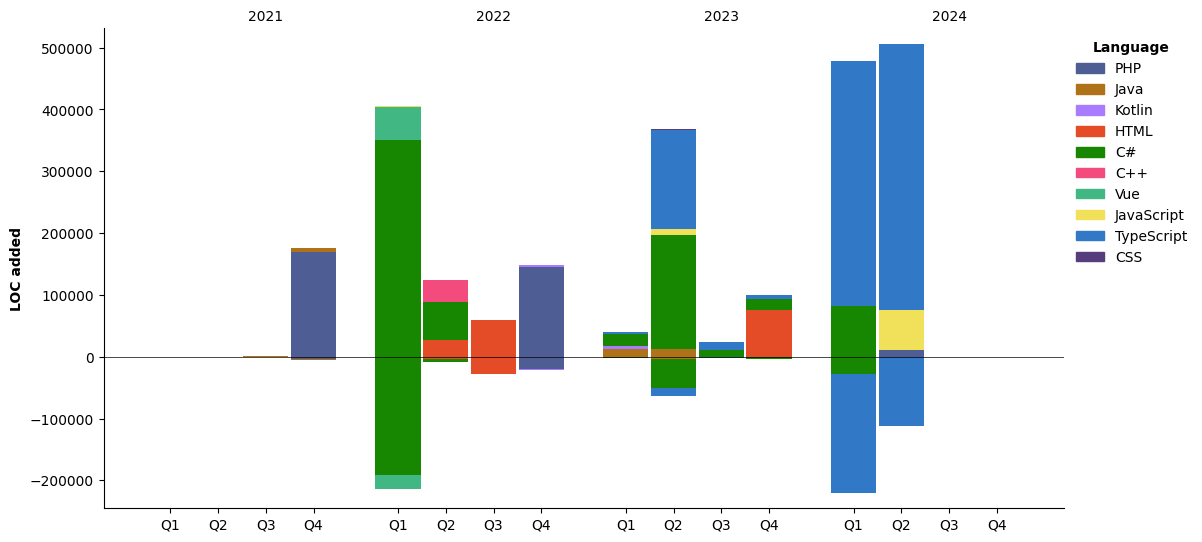
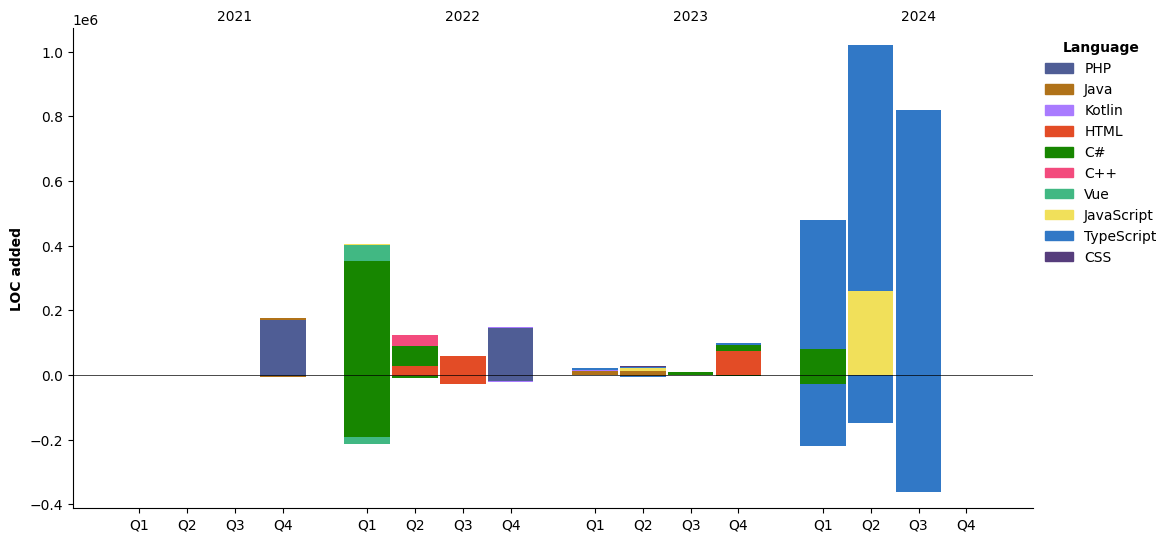
Updated WakaTime Metrics

diff --git a/README.md b/README.md
@@ -85,72 +85,68 @@ hobbies: ['Full Stack Development', 'Motorbikes', 'Food', 'Traveling']
 </div>
 
 <!--START_SECTION:DevTime-->
-
-![Profile Views](http://img.shields.io/badge/Profile%20Views-0-blue)
-
-**I'm an Early 🐤**
+**I'm an Early 🐤** 
 
 ```text
-🌞 Morning                690 commits         ⬛⬛⬛⬜⬜⬜⬜⬜⬜⬜⬜⬜⬜⬜⬜⬜⬜⬜⬜⬜⬜⬜⬜⬜⬜   11.48 %
-🌆 Daytime                2838 commits        ⬛⬛⬛⬛⬛⬛⬛⬛⬛⬛⬛⬛⬜⬜⬜⬜⬜⬜⬜⬜⬜⬜⬜⬜⬜   47.21 %
-🌃 Evening                1892 commits        ⬛⬛⬛⬛⬛⬛⬛⬛⬜⬜⬜⬜⬜⬜⬜⬜⬜⬜⬜⬜⬜⬜⬜⬜⬜   31.47 %
-🌙 Night                  592 commits         ⬛⬛⬜⬜⬜⬜⬜⬜⬜⬜⬜⬜⬜⬜⬜⬜⬜⬜⬜⬜⬜⬜⬜⬜⬜   09.85 %
+🌞 Morning                631 commits         ⬛⬛⬛⬜⬜⬜⬜⬜⬜⬜⬜⬜⬜⬜⬜⬜⬜⬜⬜⬜⬜⬜⬜⬜⬜   11.65 % 
+🌆 Daytime                2636 commits        ⬛⬛⬛⬛⬛⬛⬛⬛⬛⬛⬛⬛⬜⬜⬜⬜⬜⬜⬜⬜⬜⬜⬜⬜⬜   48.68 % 
+🌃 Evening                1405 commits        ⬛⬛⬛⬛⬛⬛⬜⬜⬜⬜⬜⬜⬜⬜⬜⬜⬜⬜⬜⬜⬜⬜⬜⬜⬜   25.95 % 
+🌙 Night                  743 commits         ⬛⬛⬛⬜⬜⬜⬜⬜⬜⬜⬜⬜⬜⬜⬜⬜⬜⬜⬜⬜⬜⬜⬜⬜⬜   13.72 % 
 ```
-
-📅 **I'm Most Productive on Thursday**
+📅 **I'm Most Productive on Tuesday** 
 
 ```text
-Monday                   980 commits         ⬛⬛⬛⬛⬜⬜⬜⬜⬜⬜⬜⬜⬜⬜⬜⬜⬜⬜⬜⬜⬜⬜⬜⬜⬜   16.30 %
-Tuesday                  921 commits         ⬛⬛⬛⬛⬜⬜⬜⬜⬜⬜⬜⬜⬜⬜⬜⬜⬜⬜⬜⬜⬜⬜⬜⬜⬜   15.32 %
-Wednesday                876 commits         ⬛⬛⬛⬛⬜⬜⬜⬜⬜⬜⬜⬜⬜⬜⬜⬜⬜⬜⬜⬜⬜⬜⬜⬜⬜   14.57 %
-Thursday                 1133 commits        ⬛⬛⬛⬛⬛⬜⬜⬜⬜⬜⬜⬜⬜⬜⬜⬜⬜⬜⬜⬜⬜⬜⬜⬜⬜   18.85 %
-Friday                   880 commits         ⬛⬛⬛⬛⬜⬜⬜⬜⬜⬜⬜⬜⬜⬜⬜⬜⬜⬜⬜⬜⬜⬜⬜⬜⬜   14.64 %
-Saturday                 835 commits         ⬛⬛⬛⬜⬜⬜⬜⬜⬜⬜⬜⬜⬜⬜⬜⬜⬜⬜⬜⬜⬜⬜⬜⬜⬜   13.89 %
-Sunday                   387 commits         ⬛⬛⬜⬜⬜⬜⬜⬜⬜⬜⬜⬜⬜⬜⬜⬜⬜⬜⬜⬜⬜⬜⬜⬜⬜   06.44 %
+Monday                   794 commits         ⬛⬛⬛⬛⬜⬜⬜⬜⬜⬜⬜⬜⬜⬜⬜⬜⬜⬜⬜⬜⬜⬜⬜⬜⬜   14.66 % 
+Tuesday                  939 commits         ⬛⬛⬛⬛⬜⬜⬜⬜⬜⬜⬜⬜⬜⬜⬜⬜⬜⬜⬜⬜⬜⬜⬜⬜⬜   17.34 % 
+Wednesday                922 commits         ⬛⬛⬛⬛⬜⬜⬜⬜⬜⬜⬜⬜⬜⬜⬜⬜⬜⬜⬜⬜⬜⬜⬜⬜⬜   17.03 % 
+Thursday                 901 commits         ⬛⬛⬛⬛⬜⬜⬜⬜⬜⬜⬜⬜⬜⬜⬜⬜⬜⬜⬜⬜⬜⬜⬜⬜⬜   16.64 % 
+Friday                   636 commits         ⬛⬛⬛⬜⬜⬜⬜⬜⬜⬜⬜⬜⬜⬜⬜⬜⬜⬜⬜⬜⬜⬜⬜⬜⬜   11.75 % 
+Saturday                 806 commits         ⬛⬛⬛⬛⬜⬜⬜⬜⬜⬜⬜⬜⬜⬜⬜⬜⬜⬜⬜⬜⬜⬜⬜⬜⬜   14.88 % 
+Sunday                   417 commits         ⬛⬛⬜⬜⬜⬜⬜⬜⬜⬜⬜⬜⬜⬜⬜⬜⬜⬜⬜⬜⬜⬜⬜⬜⬜   07.70 % 
 ```
 
-📊 **This Week I Spent My Time On**
+
+📊 **This Week I Spent My Time On** 
 
 ```text
 🕑 Time Zone: Europe/Paris
 
-💬 Programming Languages:
-TypeScript               48 hrs 15 mins      ⬛⬛⬛⬛⬛⬛⬛⬛⬛⬛⬛⬛⬛⬛⬛⬛⬛⬛⬛⬜⬜⬜⬜⬜⬜   74.66 %
-C#                       5 hrs 6 mins        ⬛⬛⬜⬜⬜⬜⬜⬜⬜⬜⬜⬜⬜⬜⬜⬜⬜⬜⬜⬜⬜⬜⬜⬜⬜   07.91 %
-YAML                     2 hrs 54 mins       ⬛⬜⬜⬜⬜⬜⬜⬜⬜⬜⬜⬜⬜⬜⬜⬜⬜⬜⬜⬜⬜⬜⬜⬜⬜   04.49 %
-JSON                     2 hrs 6 mins        ⬛⬜⬜⬜⬜⬜⬜⬜⬜⬜⬜⬜⬜⬜⬜⬜⬜⬜⬜⬜⬜⬜⬜⬜⬜   03.27 %
-Binary                   1 hr 49 mins        ⬛⬜⬜⬜⬜⬜⬜⬜⬜⬜⬜⬜⬜⬜⬜⬜⬜⬜⬜⬜⬜⬜⬜⬜⬜   02.81 %
+💬 Programming Languages: 
+TypeScript               1 hr 30 mins        ⬛⬛⬛⬛⬛⬛⬛⬛⬛⬛⬛⬛⬛⬛⬛⬛⬛⬛⬛⬛⬜⬜⬜⬜⬜   79.05 % 
+JSON                     18 mins             ⬛⬛⬛⬛⬜⬜⬜⬜⬜⬜⬜⬜⬜⬜⬜⬜⬜⬜⬜⬜⬜⬜⬜⬜⬜   16.46 % 
+Bash                     3 mins              ⬛⬜⬜⬜⬜⬜⬜⬜⬜⬜⬜⬜⬜⬜⬜⬜⬜⬜⬜⬜⬜⬜⬜⬜⬜   03.39 % 
+TSConfig                 1 min               ⬜⬜⬜⬜⬜⬜⬜⬜⬜⬜⬜⬜⬜⬜⬜⬜⬜⬜⬜⬜⬜⬜⬜⬜⬜   01.00 % 
+JavaScript               0 secs              ⬜⬜⬜⬜⬜⬜⬜⬜⬜⬜⬜⬜⬜⬜⬜⬜⬜⬜⬜⬜⬜⬜⬜⬜⬜   00.10 % 
 
-🔥 Editors:
-VS Code                  56 hrs 38 mins      ⬛⬛⬛⬛⬛⬛⬛⬛⬛⬛⬛⬛⬛⬛⬛⬛⬛⬛⬛⬛⬛⬛⬜⬜⬜   87.62 %
-Visual Studio            7 hrs 59 mins       ⬛⬛⬛⬜⬜⬜⬜⬜⬜⬜⬜⬜⬜⬜⬜⬜⬜⬜⬜⬜⬜⬜⬜⬜⬜   12.38 %
+🔥 Editors: 
+VS Code                  1 hr 55 mins        ⬛⬛⬛⬛⬛⬛⬛⬛⬛⬛⬛⬛⬛⬛⬛⬛⬛⬛⬛⬛⬛⬛⬛⬛⬛   100.00 % 
 
-🐱💻 Projects:
-Now.ts.mantine           35 hrs              ⬛⬛⬛⬛⬛⬛⬛⬛⬛⬛⬛⬛⬛⬛⬜⬜⬜⬜⬜⬜⬜⬜⬜⬜⬜   54.15 %
-YouCode                  9 hrs 19 mins       ⬛⬛⬛⬛⬜⬜⬜⬜⬜⬜⬜⬜⬜⬜⬜⬜⬜⬜⬜⬜⬜⬜⬜⬜⬜   14.44 %
-Back                     7 hrs 41 mins       ⬛⬛⬛⬜⬜⬜⬜⬜⬜⬜⬜⬜⬜⬜⬜⬜⬜⬜⬜⬜⬜⬜⬜⬜⬜   11.91 %
-now.ts                   4 hrs 16 mins       ⬛⬛⬜⬜⬜⬜⬜⬜⬜⬜⬜⬜⬜⬜⬜⬜⬜⬜⬜⬜⬜⬜⬜⬜⬜   06.62 %
-From-A2B                 3 hrs 25 mins       ⬛⬜⬜⬜⬜⬜⬜⬜⬜⬜⬜⬜⬜⬜⬜⬜⬜⬜⬜⬜⬜⬜⬜⬜⬜   05.30 %
+🐱💻 Projects: 
+now.ts                   46 mins             ⬛⬛⬛⬛⬛⬛⬛⬛⬛⬛⬜⬜⬜⬜⬜⬜⬜⬜⬜⬜⬜⬜⬜⬜⬜   40.44 % 
+i18n_NPM                 43 mins             ⬛⬛⬛⬛⬛⬛⬛⬛⬛⬜⬜⬜⬜⬜⬜⬜⬜⬜⬜⬜⬜⬜⬜⬜⬜   37.39 % 
+WebApp                   21 mins             ⬛⬛⬛⬛⬛⬜⬜⬜⬜⬜⬜⬜⬜⬜⬜⬜⬜⬜⬜⬜⬜⬜⬜⬜⬜   18.80 % 
+C3PO_Cerveau_Client      3 mins              ⬛⬜⬜⬜⬜⬜⬜⬜⬜⬜⬜⬜⬜⬜⬜⬜⬜⬜⬜⬜⬜⬜⬜⬜⬜   03.37 % 
 
-💻 Operating System:
-Windows                  64 hrs 38 mins      ⬛⬛⬛⬛⬛⬛⬛⬛⬛⬛⬛⬛⬛⬛⬛⬛⬛⬛⬛⬛⬛⬛⬛⬛⬛   100.00 %
+💻 Operating System: 
+Windows                  1 hr 55 mins        ⬛⬛⬛⬛⬛⬛⬛⬛⬛⬛⬛⬛⬛⬛⬛⬛⬛⬛⬛⬛⬛⬛⬛⬛⬛   100.00 % 
 ```
 
-**I Mostly Code in TypeScript**
+**I Mostly Code in TypeScript** 
 
 ```text
-TypeScript               13 repos            ⬛⬛⬛⬛⬛⬛⬜⬜⬜⬜⬜⬜⬜⬜⬜⬜⬜⬜⬜⬜⬜⬜⬜⬜⬜   24.53 %
-C#                       10 repos            ⬛⬛⬛⬛⬛⬜⬜⬜⬜⬜⬜⬜⬜⬜⬜⬜⬜⬜⬜⬜⬜⬜⬜⬜⬜   18.87 %
-PHP                      6 repos             ⬛⬛⬛⬜⬜⬜⬜⬜⬜⬜⬜⬜⬜⬜⬜⬜⬜⬜⬜⬜⬜⬜⬜⬜⬜   11.32 %
-JavaScript               5 repos             ⬛⬛⬜⬜⬜⬜⬜⬜⬜⬜⬜⬜⬜⬜⬜⬜⬜⬜⬜⬜⬜⬜⬜⬜⬜   09.43 %
-HTML                     2 repos             ⬛⬜⬜⬜⬜⬜⬜⬜⬜⬜⬜⬜⬜⬜⬜⬜⬜⬜⬜⬜⬜⬜⬜⬜⬜   03.77 %
+TypeScript               18 repos            ⬛⬛⬛⬛⬛⬛⬛⬛⬜⬜⬜⬜⬜⬜⬜⬜⬜⬜⬜⬜⬜⬜⬜⬜⬜   31.58 % 
+Java                     12 repos            ⬛⬛⬛⬛⬛⬜⬜⬜⬜⬜⬜⬜⬜⬜⬜⬜⬜⬜⬜⬜⬜⬜⬜⬜⬜   21.05 % 
+C#                       9 repos             ⬛⬛⬛⬛⬜⬜⬜⬜⬜⬜⬜⬜⬜⬜⬜⬜⬜⬜⬜⬜⬜⬜⬜⬜⬜   15.79 % 
+JavaScript               6 repos             ⬛⬛⬛⬜⬜⬜⬜⬜⬜⬜⬜⬜⬜⬜⬜⬜⬜⬜⬜⬜⬜⬜⬜⬜⬜   10.53 % 
+HTML                     2 repos             ⬛⬜⬜⬜⬜⬜⬜⬜⬜⬜⬜⬜⬜⬜⬜⬜⬜⬜⬜⬜⬜⬜⬜⬜⬜   03.51 % 
 ```
+
+
 
 **Timeline**
 
 ![Lines of Code chart](https://raw.githubusercontent.com/Dercraker/Dercraker/master/assets/bar_graph.png)
 
-Last Updated on 11/05/2024 20:59:30 UTC
 
 <!--END_SECTION:DevTime-->
 
